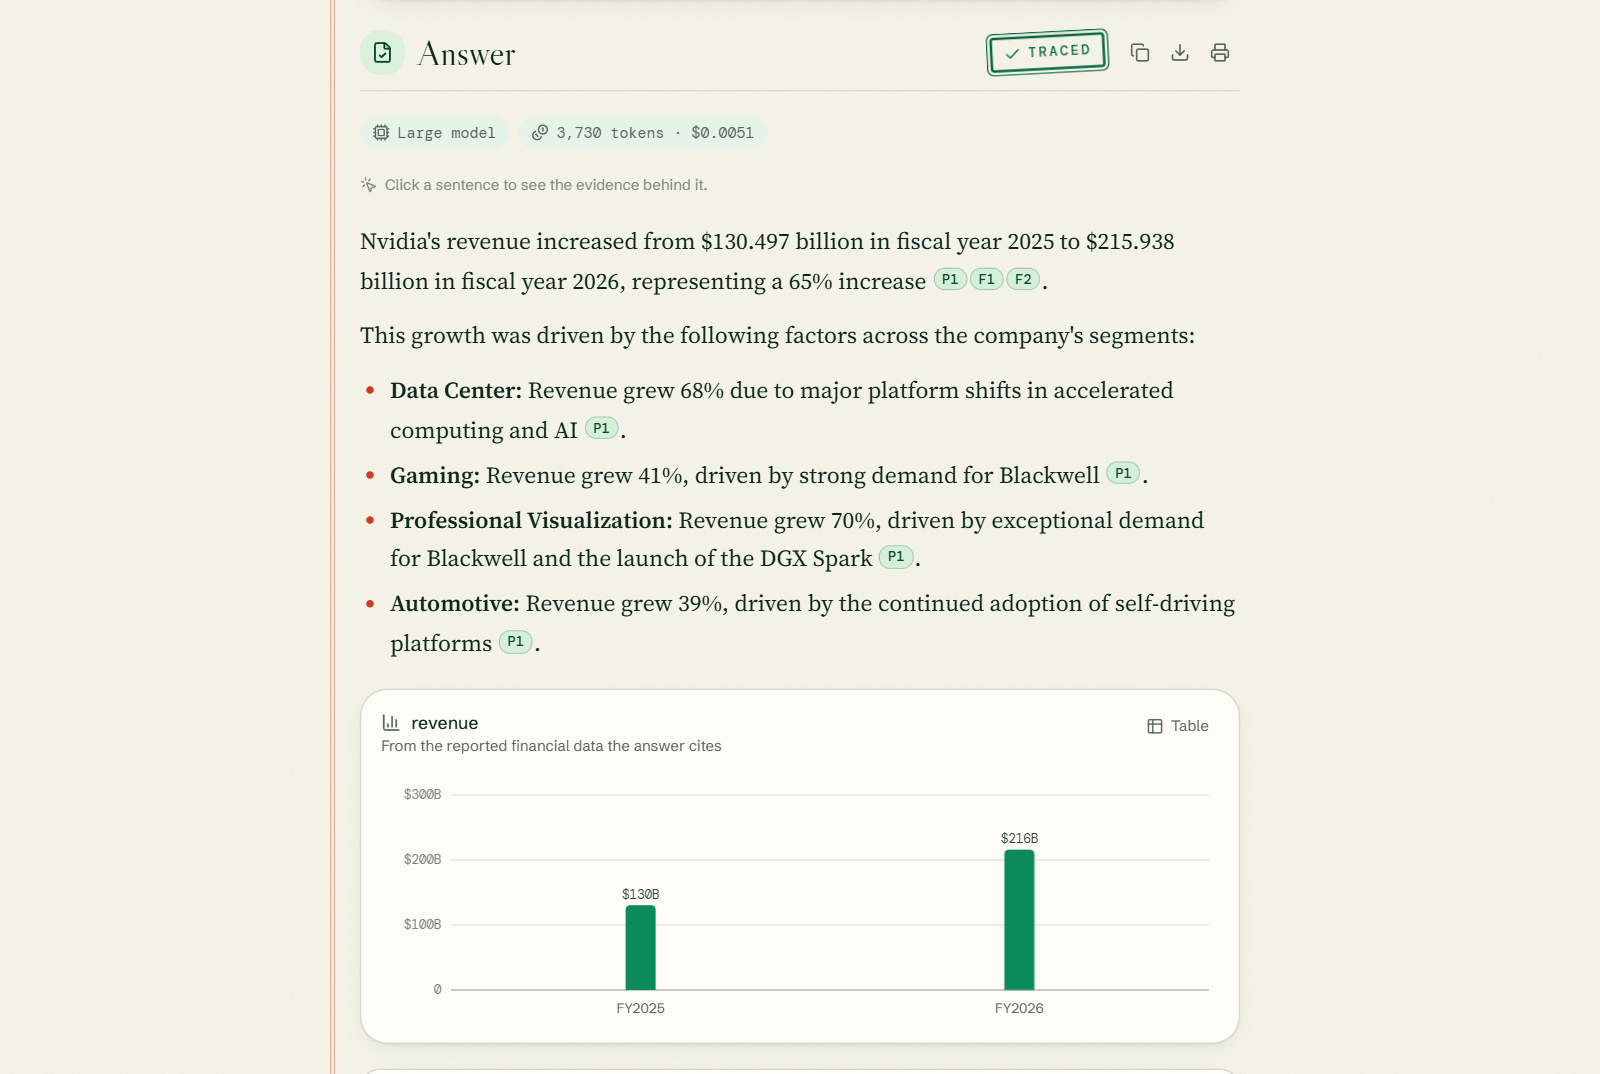
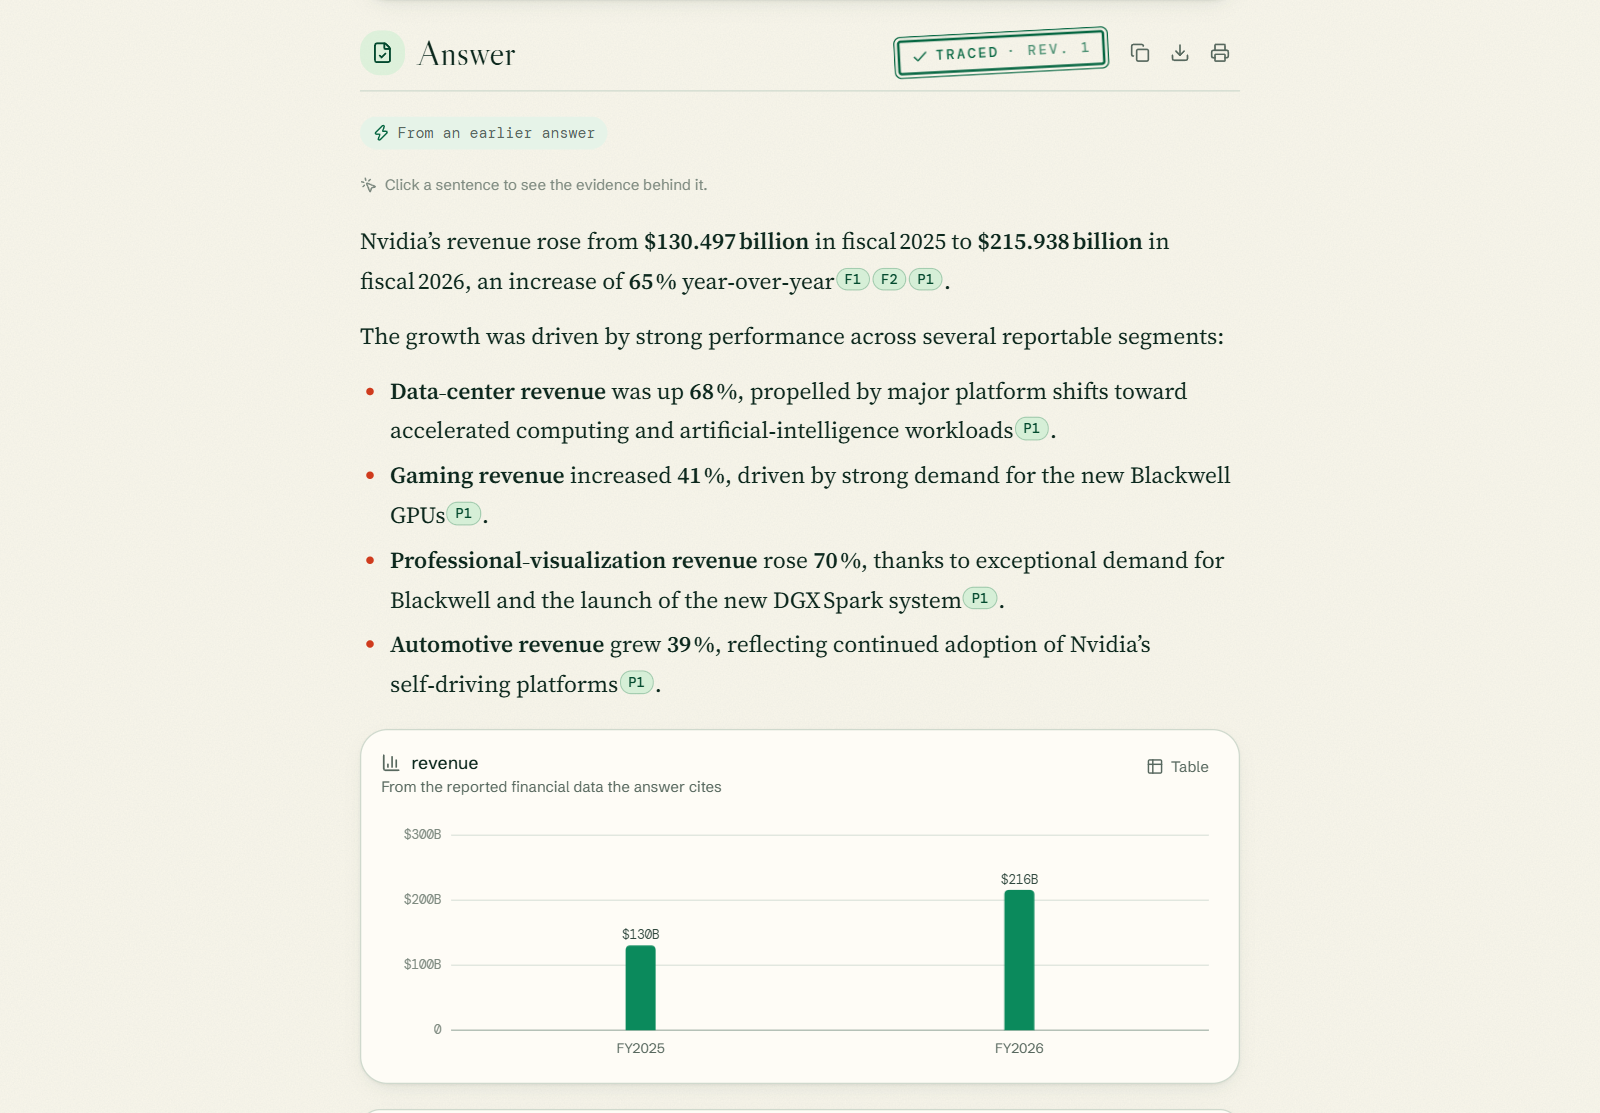
Re-record the demo and screenshots with the new header and folding steps

diff --git a/scripts/readme_screenshots.py b/scripts/readme_screenshots.py
@@ -115,7 +115,7 @@ def main(key: dict[str, str]) -> None:
         region(
             page,
             page.locator("#compare-question"),
-            sections.first.locator("article header").first,
+            sections.nth(1).get_by_text("The library holds"),  # the end of the "no answer" note
             "compare.png",
             pad=60,
         )
